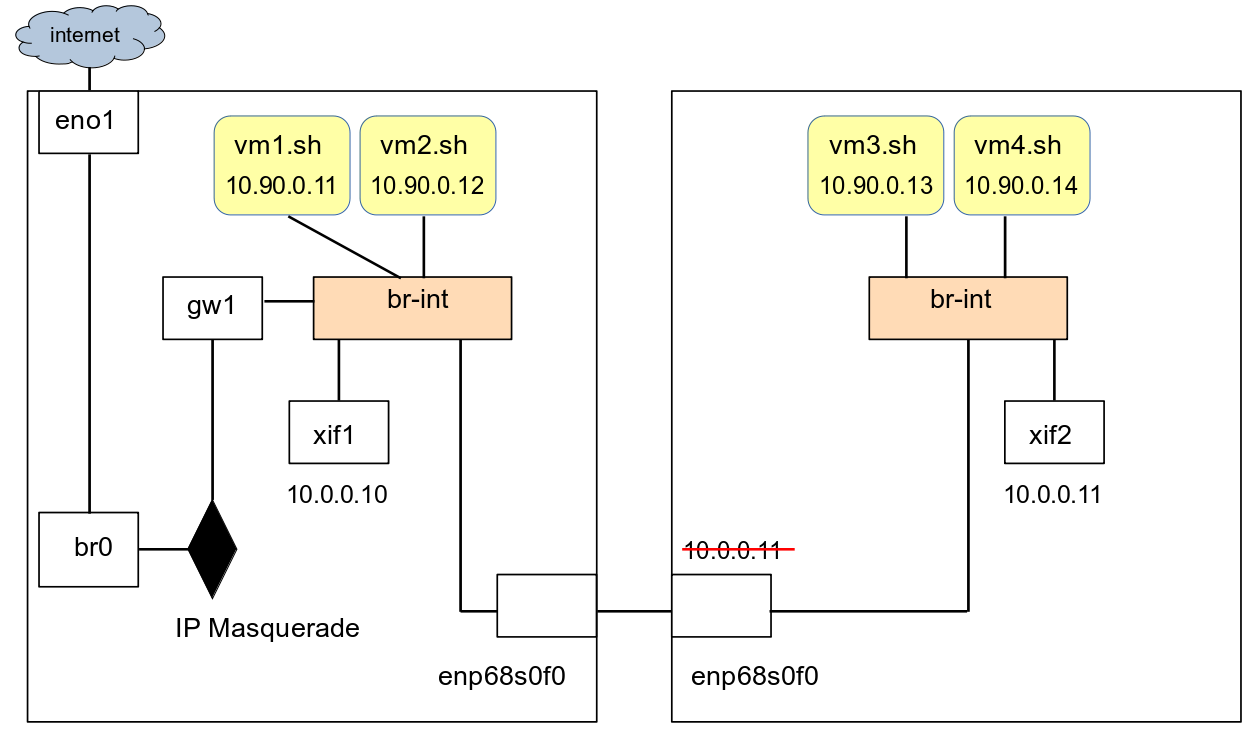
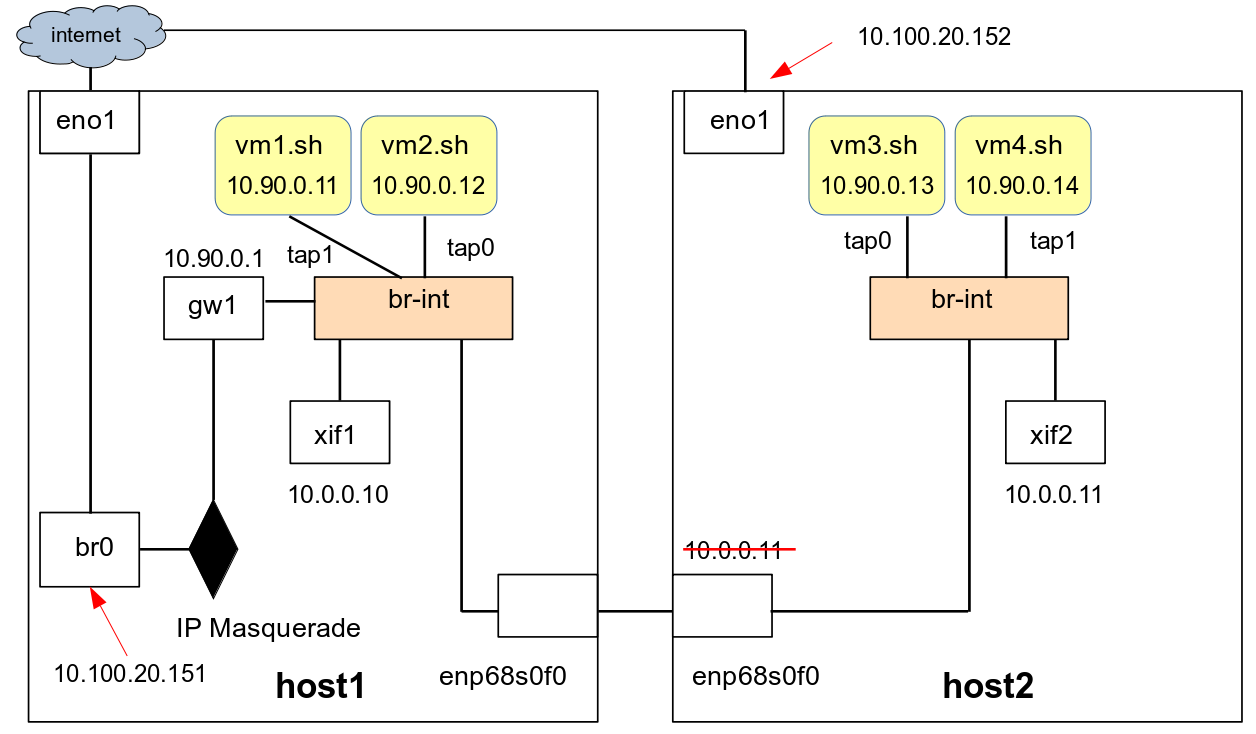
upp8

diff --git a/README.md b/README.md
@@ -1290,7 +1290,7 @@ host1$
 และในสคริปต์ไฟล์ vm2.sh ผู้เขียนจะต้องเปลี่ยนสิ่งต่างๆดังต่อไปนี้ 
 <ul>
 <li>เปลี่ยนชื่ออิมเมจไฟล์จาก vm1.img ให้เป็น vm2.ovl 
-<li>เปลี่ยน vnc server port ของวีเอ็มให้เป็น "-vnc :12" เนื่องจากพอรต์ 5509+11 หรือ :11 ถูกใช้โดย vm1.sh แล้ว
+<li>เปลี่ยน vnc server port ของวีเอ็มให้เป็น "-vnc :12" หรือ 5900+12 เนื่องจากพอรต์ 5900+11 หรือ :11 ถูกใช้โดย vm1.sh แล้ว
 <li>เปลี่ยนค่า port ที่จะใช้ส่งคำสั่งแบบ QMP ของ qemu-kvm ให้ไม่เหมือนกับของวีเอ็มอื่น (tcp:9121)
 <li>เปลี่ยนค่า port ที่จะใช้ออกคำสั่งแบบ Qemu Monitor ให้ไม่เหมือนกับของวีเอ็มอื่น (tcp:9122)
 <li>เปลี่ยน MAC address ของ tap เนตเวอร์อินเตอร์เฟสที่วีเอ็มจะใช้เขื่อมต่อกับเครือข่ายเสมือนให้ไม่ซ้ำกับของวีเอ็มอื่น 
@@ -1379,7 +1379,37 @@ $ sudo reboot
 ถ้าผู้อ่านไม่ต้องการรีบูทเครื่องก็ต้องใช้คำสั่ง systemctl เปลี่ยนชื่อ และใช้ netpla apply เพื่อเปลี่ยนค่าไอพี
 บนคอมมานไลน์) 
 <p>
-
+บนเครื่อง host1 ผู้เขียนจะรัน vm1.sh เพิ่มเพื่อให้มีทั้ง vm1.sh และ vm2.sh รันอยู่บน host1 ดังภาพที่ 9 
+จากภาพจะเห็นว่าวีเอ็มทั้งสองได้สร้าง tap อินเตอร์เฟส tap1 และ tap0 เพื่อเชือมต่อวีเอ็มกับ br-int 
+สวิชต์ตามลำดับ และผู้เขียนสามารถใช้คำสั่ง ovs-vsctl เพื่อดูสถานะการเชื่อมต่อนั้นได้
+<pre>
+On host1: 
+$ cd /srv/kasidit/bookhosts/scripts
+$
+$ ./vm1.sh &
+$
+$ sudo ovs-vsctl show
+...
+    Bridge br-int
+        Port gw1
+            Interface gw1
+                type: internal
+        Port xif1
+            Interface xif1
+                type: internal
+        Port tap0
+            Interface tap0
+        Port enp68s0f0
+            Interface enp68s0f0
+        Port tap1
+            Interface tap1
+        Port br-int
+            Interface br-int
+                type: internal
+...
+    ovs_version: "2.13.1"
+$
+</pre>
 <p><p>
 <b>5.2.4 การเตรียมอิมเมจและสคริปบนเครื่อง host2</b>
 <p>
